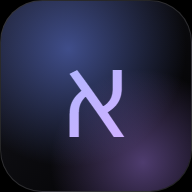
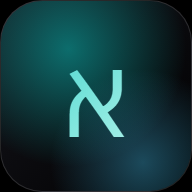
Repalette to Tiffany blue, and drop the Anki tagline
Purple is out. The accent is Tiffany blue (Pantone 1837, #0ABAB5) running
into a lighter aqua, and the ambient mesh, module tints, progress rings,
memory-hook panels, app icons and share card all move with it.

White on Tiffany only reaches about 2.5:1, so filled accent surfaces now use
near-black ink, which clears 6:1 and is the truer look for the colour. That
lives in a .btn-accent class rather than the inline gradients that were
scattered across seven files, so the next palette change is one edit and the
ink can't be forgotten.

Success green moved from #4ADE9C to #58E06A. The old mint sat close enough to
cyan that "correct" and "primary" would have started reading as the same
signal.

"Where Anki comes to die." is gone; nine taglines remain.

diff --git a/src/app/globals.css b/src/app/globals.css
@@ -10,9 +10,16 @@
   --color-ink-dim: #9a9aa4;
   --color-ink-faint: #62626c;
 
-  --color-accent: #6f8bff;
-  --color-accent-2: #b489ff;
-  --color-mint: #4ade9c;
+  /* Tiffany blue (Pantone 1837, ~#0ABAB5) into a lighter aqua. */
+  --color-accent: #0abab5;
+  --color-accent-2: #7fe3da;
+  /* Text on a filled accent surface. White on Tiffany is only ~2.5:1;
+     near-black clears 6:1 and is the truer look for this colour. */
+  --color-on-accent: #04211f;
+
+  /* Success sits well clear of the accent in hue so "correct" never reads
+     as "primary" — the accent is cyan, this stays green. */
+  --color-mint: #58e06a;
   --color-coral: #ff6b7a;
   --color-amber: #ffb74d;
 
@@ -90,7 +97,7 @@ body {
   height: 58vmax;
   left: -12%;
   top: -6%;
-  background: radial-gradient(circle, rgba(90, 108, 255, 0.5), transparent 66%);
+  background: radial-gradient(circle, rgba(10, 186, 181, 0.5), transparent 66%);
   animation: drift-a 26s var(--ease-out-soft) infinite alternate;
 }
 
@@ -99,7 +106,7 @@ body {
   height: 52vmax;
   right: -16%;
   top: 18%;
-  background: radial-gradient(circle, rgba(176, 96, 255, 0.42), transparent 66%);
+  background: radial-gradient(circle, rgba(46, 140, 190, 0.42), transparent 66%);
   animation: drift-b 32s var(--ease-out-soft) infinite alternate;
 }
 
@@ -108,7 +115,7 @@ body {
   height: 46vmax;
   left: 8%;
   bottom: -18%;
-  background: radial-gradient(circle, rgba(0, 190, 190, 0.34), transparent 66%);
+  background: radial-gradient(circle, rgba(127, 227, 218, 0.26), transparent 66%);
   animation: drift-c 38s var(--ease-out-soft) infinite alternate;
 }
 
@@ -161,6 +168,32 @@ body {
 .glass-strong {
   background: var(--glass-bg-strong);
   border-color: var(--glass-brd-strong);
+}
+
+/* Filled accent surfaces ------------------------------------------------- */
+
+/* One place for the primary-button look, so the palette can move without
+   hunting down inline gradients — and so the dark ink is never forgotten. */
+.btn-accent {
+  background: linear-gradient(
+    100deg,
+    var(--color-accent),
+    var(--color-accent-2)
+  );
+  color: var(--color-on-accent);
+  box-shadow: 0 8px 26px -12px rgba(10, 186, 181, 0.85);
+}
+
+/* Accent as text or an icon, on the dark canvas. */
+.text-accent-grad {
+  background: linear-gradient(
+    100deg,
+    var(--color-accent),
+    var(--color-accent-2)
+  );
+  -webkit-background-clip: text;
+  background-clip: text;
+  -webkit-text-fill-color: transparent;
 }
 
 /* Pressable ------------------------------------------------------------- */

diff --git a/src/app/page.tsx b/src/app/page.tsx
@@ -49,13 +49,7 @@ export default function Home() {
         <h1 className="mt-0.5 text-[32px] leading-[1.1] font-bold tracking-[-0.03em]">
           Teach me
           <br />
-          <span
-            style={{
-              background:
-                "linear-gradient(100deg, var(--color-accent), var(--color-accent-2))",
-              WebkitBackgroundClip: "text",
-              WebkitTextFillColor: "transparent",
-            }}
+          <span className="text-accent-grad"
           >
             Daddy
           </span>
@@ -102,12 +96,7 @@ export default function Home() {
             href="/study"
             prefetch={LINK_PREFETCH}
             onClick={tap}
-            className="press flex min-h-[44px] flex-1 items-center justify-center rounded-full text-[13px] font-semibold"
-            style={{
-              background:
-                "linear-gradient(100deg, var(--color-accent), var(--color-accent-2))",
-              boxShadow: "0 6px 20px -8px rgba(111,139,255,0.8)",
-            }}
+            className="btn-accent press flex min-h-[44px] flex-1 items-center justify-center rounded-full text-[13px] font-semibold"
           >
             {due > 0 ? `Study ${due}` : "Study"}
           </Link>
@@ -132,7 +121,7 @@ export default function Home() {
           title="The Alphabet"
           detail={`${mastered}/${LETTERS.length} mastered · print, cursive, traps`}
           glyph="א"
-          tint="rgba(111,139,255,0.16)"
+          tint="rgba(10,186,181,0.20)"
           delay={120}
         />
         <Module
@@ -140,7 +129,7 @@ export default function Home() {
           title="Vocabulary"
           detail={`${items.length} words · patterns first, then the pieces`}
           glyph="מ"
-          tint="rgba(180,137,255,0.16)"
+          tint="rgba(127,227,218,0.16)"
           delay={175}
         />
         <Module
@@ -148,7 +137,7 @@ export default function Home() {
           title="Your Words"
           detail={`${items.length} in the deck · add, import, export`}
           glyph="ו"
-          tint="rgba(255,183,77,0.14)"
+          tint="rgba(60,170,210,0.18)"
           delay={230}
         />
         <Module
@@ -156,7 +145,7 @@ export default function Home() {
           title="The 5-Month Plan"
           detail="Daily blocks, metrics, coverage curve"
           glyph="ה"
-          tint="rgba(74,222,156,0.14)"
+          tint="rgba(88,224,106,0.14)"
           delay={285}
         />
       </div>

diff --git a/src/components/AccountGate.tsx b/src/components/AccountGate.tsx
@@ -21,7 +21,6 @@ const TAGLINES = [
   "From alef to oy vey.",
   "Right to left. No going back.",
   "Nikud? Never heard of her.",
-  "Where Anki comes to die.",
   "Low and slow, like a good tsimmes.",
   "Five months. Six thousand words. One Daddy.",
   "22 letters stand between you and shawarma.",
@@ -78,7 +77,7 @@ function Wordmark({ tagline }: { tagline: string }) {
           className="heb text-[34px] leading-none"
           style={{
             fontFamily: "var(--font-hebrew)",
-            background: "linear-gradient(135deg, #a8b6ff, #d3b0ff)",
+            background: "linear-gradient(135deg, #4fd8d0, #a8f0e8)",
             WebkitBackgroundClip: "text",
             WebkitTextFillColor: "transparent",
           }}
@@ -88,13 +87,7 @@ function Wordmark({ tagline }: { tagline: string }) {
       </div>
       <h1 className="text-[30px] leading-[1.1] font-bold tracking-[-0.03em]">
         Teach me{" "}
-        <span
-          style={{
-            background:
-              "linear-gradient(100deg, var(--color-accent), var(--color-accent-2))",
-            WebkitBackgroundClip: "text",
-            WebkitTextFillColor: "transparent",
-          }}
+        <span className="text-accent-grad"
         >
           Daddy
         </span>
@@ -200,12 +193,7 @@ function Gate() {
                 setName("");
                 setErr(null);
               }}
-              className="press mb-2.5 min-h-[52px] w-full rounded-full text-[15px] font-semibold"
-              style={{
-                background:
-                  "linear-gradient(100deg, var(--color-accent), var(--color-accent-2))",
-                boxShadow: "0 8px 26px -10px rgba(111,139,255,0.9)",
-              }}
+              className="btn-accent press mb-2.5 min-h-[52px] w-full rounded-full text-[15px] font-semibold"
             >
               Log in
             </button>
@@ -302,7 +290,7 @@ function Gate() {
             <button
               disabled={busy || name.trim().length < 3}
               onClick={submit}
-              className="press mt-4 min-h-[52px] w-full rounded-full text-[15px] font-semibold"
+              className="btn-accent press mt-4 min-h-[52px] w-full rounded-full text-[15px] font-semibold"
               style={{
                 background:
                   "linear-gradient(100deg, var(--color-accent), var(--color-accent-2))",

diff --git a/src/app/practice/page.tsx b/src/app/practice/page.tsx
@@ -185,7 +185,7 @@ export default function PracticePage() {
               maxHeight: 300,
               borderColor:
                 verdict === "correct"
-                  ? "rgba(74,222,156,0.45)"
+                  ? "rgba(88,224,106,0.45)"
                   : verdict === "wrong"
                     ? "rgba(255,107,122,0.45)"
                     : undefined,
@@ -217,8 +217,8 @@ export default function PracticePage() {
               let fg: string | undefined;
 
               if (verdict && isTarget) {
-                bg = "rgba(74,222,156,0.16)";
-                brd = "rgba(74,222,156,0.55)";
+                bg = "rgba(88,224,106,0.16)";
+                brd = "rgba(88,224,106,0.55)";
                 fg = "var(--color-mint)";
               } else if (verdict && isPicked) {
                 bg = "rgba(255,107,122,0.16)";
@@ -277,8 +277,8 @@ function Results({
         className="mx-auto grid size-14 place-items-center rounded-full"
         style={{
           background: clean
-            ? "rgba(74,222,156,0.15)"
-            : "rgba(111,139,255,0.15)",
+            ? "rgba(88,224,106,0.15)"
+            : "rgba(10,186,181,0.18)",
         }}
       >
         <span className="text-[26px]">{clean ? "🏆" : "✦"}</span>
@@ -323,12 +323,7 @@ function Results({
 
       <button
         onClick={onRestart}
-        className="press mt-5 w-full rounded-full py-3.5 text-[14px] font-semibold"
-        style={{
-          background:
-            "linear-gradient(100deg, var(--color-accent), var(--color-accent-2))",
-          boxShadow: "0 8px 26px -10px rgba(111,139,255,0.9)",
-        }}
+        className="btn-accent press mt-5 w-full rounded-full py-3.5 text-[14px] font-semibold"
       >
         Another round
       </button>

diff --git a/src/app/plan/page.tsx b/src/app/plan/page.tsx
@@ -141,8 +141,8 @@ export default function PlanPage() {
                 onClick={() => toggleBlock(b.id)}
                 className="press flex items-center gap-3 rounded-[16px] px-3 py-2.5 text-left"
                 style={{
-                  background: on ? "rgba(74,222,156,0.12)" : "rgba(255,255,255,0.04)",
-                  border: `1px solid ${on ? "rgba(74,222,156,0.35)" : "rgba(255,255,255,0.07)"}`,
+                  background: on ? "rgba(88,224,106,0.12)" : "rgba(255,255,255,0.04)",
+                  border: `1px solid ${on ? "rgba(88,224,106,0.35)" : "rgba(255,255,255,0.07)"}`,
                 }}
               >
                 <span
@@ -310,7 +310,7 @@ export default function PlanPage() {
                 className="glass rounded-[20px] p-3.5"
                 style={{
                   borderColor: current
-                    ? "rgba(111,139,255,0.4)"
+                    ? "rgba(10,186,181,0.45)"
                     : undefined,
                   opacity: passed ? 0.55 : 1,
                 }}

diff --git a/src/app/study/page.tsx b/src/app/study/page.tsx
@@ -141,7 +141,7 @@ export default function StudyPage() {
         <div className="glass anim-rise rounded-[28px] p-6 text-center">
           <div
             className="mx-auto grid size-14 place-items-center rounded-full"
-            style={{ background: "rgba(74,222,156,0.15)" }}
+            style={{ background: "rgba(88,224,106,0.15)" }}
           >
             <span className="text-[26px]">✓</span>
           </div>
@@ -165,11 +165,7 @@ export default function StudyPage() {
           {!nothingLeft && (
             <button
               onClick={restart}
-              className="press mt-5 w-full rounded-full py-3.5 text-[14px] font-semibold"
-              style={{
-                background:
-                  "linear-gradient(100deg, var(--color-accent), var(--color-accent-2))",
-              }}
+              className="btn-accent press mt-5 w-full rounded-full py-3.5 text-[14px] font-semibold"
             >
               Keep going
             </button>

diff --git a/src/app/words/page.tsx b/src/app/words/page.tsx
@@ -82,11 +82,7 @@ export default function WordsPage() {
               setNote(null);
               setErr(null);
             }}
-            className="press min-h-[44px] flex-1 rounded-full text-[13px] font-semibold"
-            style={{
-              background:
-                "linear-gradient(100deg, var(--color-accent), var(--color-accent-2))",
-            }}
+            className="btn-accent press min-h-[44px] flex-1 rounded-full text-[13px] font-semibold"
           >
             Add a word
           </button>
@@ -141,7 +137,7 @@ export default function WordsPage() {
       {note && (
         <p
           className="anim-fade mb-3 rounded-[14px] px-3.5 py-2.5 text-[12px]"
-          style={{ background: "rgba(74,222,156,0.12)", color: "var(--color-mint)" }}
+          style={{ background: "rgba(88,224,106,0.12)", color: "var(--color-mint)" }}
         >
           {note}
         </p>

diff --git a/src/app/alphabet/page.tsx b/src/app/alphabet/page.tsx
@@ -104,11 +104,7 @@ export default function AlphabetPage() {
           href="/practice"
           prefetch={LINK_PREFETCH}
           onClick={tap}
-          className="press flex min-h-[44px] flex-1 items-center justify-center rounded-full text-[13px] font-semibold"
-          style={{
-            background:
-              "linear-gradient(100deg, var(--color-accent), var(--color-accent-2))",
-          }}
+          className="btn-accent press flex min-h-[44px] flex-1 items-center justify-center rounded-full text-[13px] font-semibold"
         >
           Drill the letters
         </Link>

diff --git a/src/components/LetterSheet.tsx b/src/components/LetterSheet.tsx
@@ -192,8 +192,8 @@ export default function LetterSheet({ letter, script, onClose }: Props) {
         <div
           className="mt-3 rounded-[18px] px-4 py-3.5"
           style={{
-            background: "rgba(111,139,255,0.10)",
-            border: "1px solid rgba(111,139,255,0.20)",
+            background: "rgba(10,186,181,0.12)",
+            border: "1px solid rgba(10,186,181,0.28)",
           }}
         >
           <div className="text-[10px] font-semibold tracking-[0.08em] text-(--color-accent) uppercase">

diff --git a/src/app/progress/page.tsx b/src/app/progress/page.tsx
@@ -137,7 +137,7 @@ export default function ProgressPage() {
                           ? "rgba(255,183,77,0.65)"
                           : "rgba(255,255,255,0.10)",
                     boxShadow:
-                      ratio >= 1 ? "0 0 6px rgba(74,222,156,0.6)" : undefined,
+                      ratio >= 1 ? "0 0 6px rgba(88,224,106,0.6)" : undefined,
                   }}
                 />
               </div>

diff --git a/src/app/me/page.tsx b/src/app/me/page.tsx
@@ -87,7 +87,7 @@ export default function MePage() {
       {note && (
         <p
           className="anim-fade mb-4 rounded-[14px] px-3.5 py-2.5 text-[12px]"
-          style={{ background: "rgba(74,222,156,0.12)", color: "var(--color-mint)" }}
+          style={{ background: "rgba(88,224,106,0.12)", color: "var(--color-mint)" }}
         >
           {note}
         </p>

diff --git a/src/components/Ring.tsx b/src/components/Ring.tsx
@@ -48,7 +48,7 @@ export default function Ring({
           strokeDashoffset={c * (1 - clamped)}
           style={{
             transition: "stroke-dashoffset 900ms var(--ease-out-soft)",
-            filter: "drop-shadow(0 0 8px rgba(111,139,255,0.45))",
+            filter: "drop-shadow(0 0 8px rgba(10,186,181,0.55))",
           }}
         />
       </svg>
